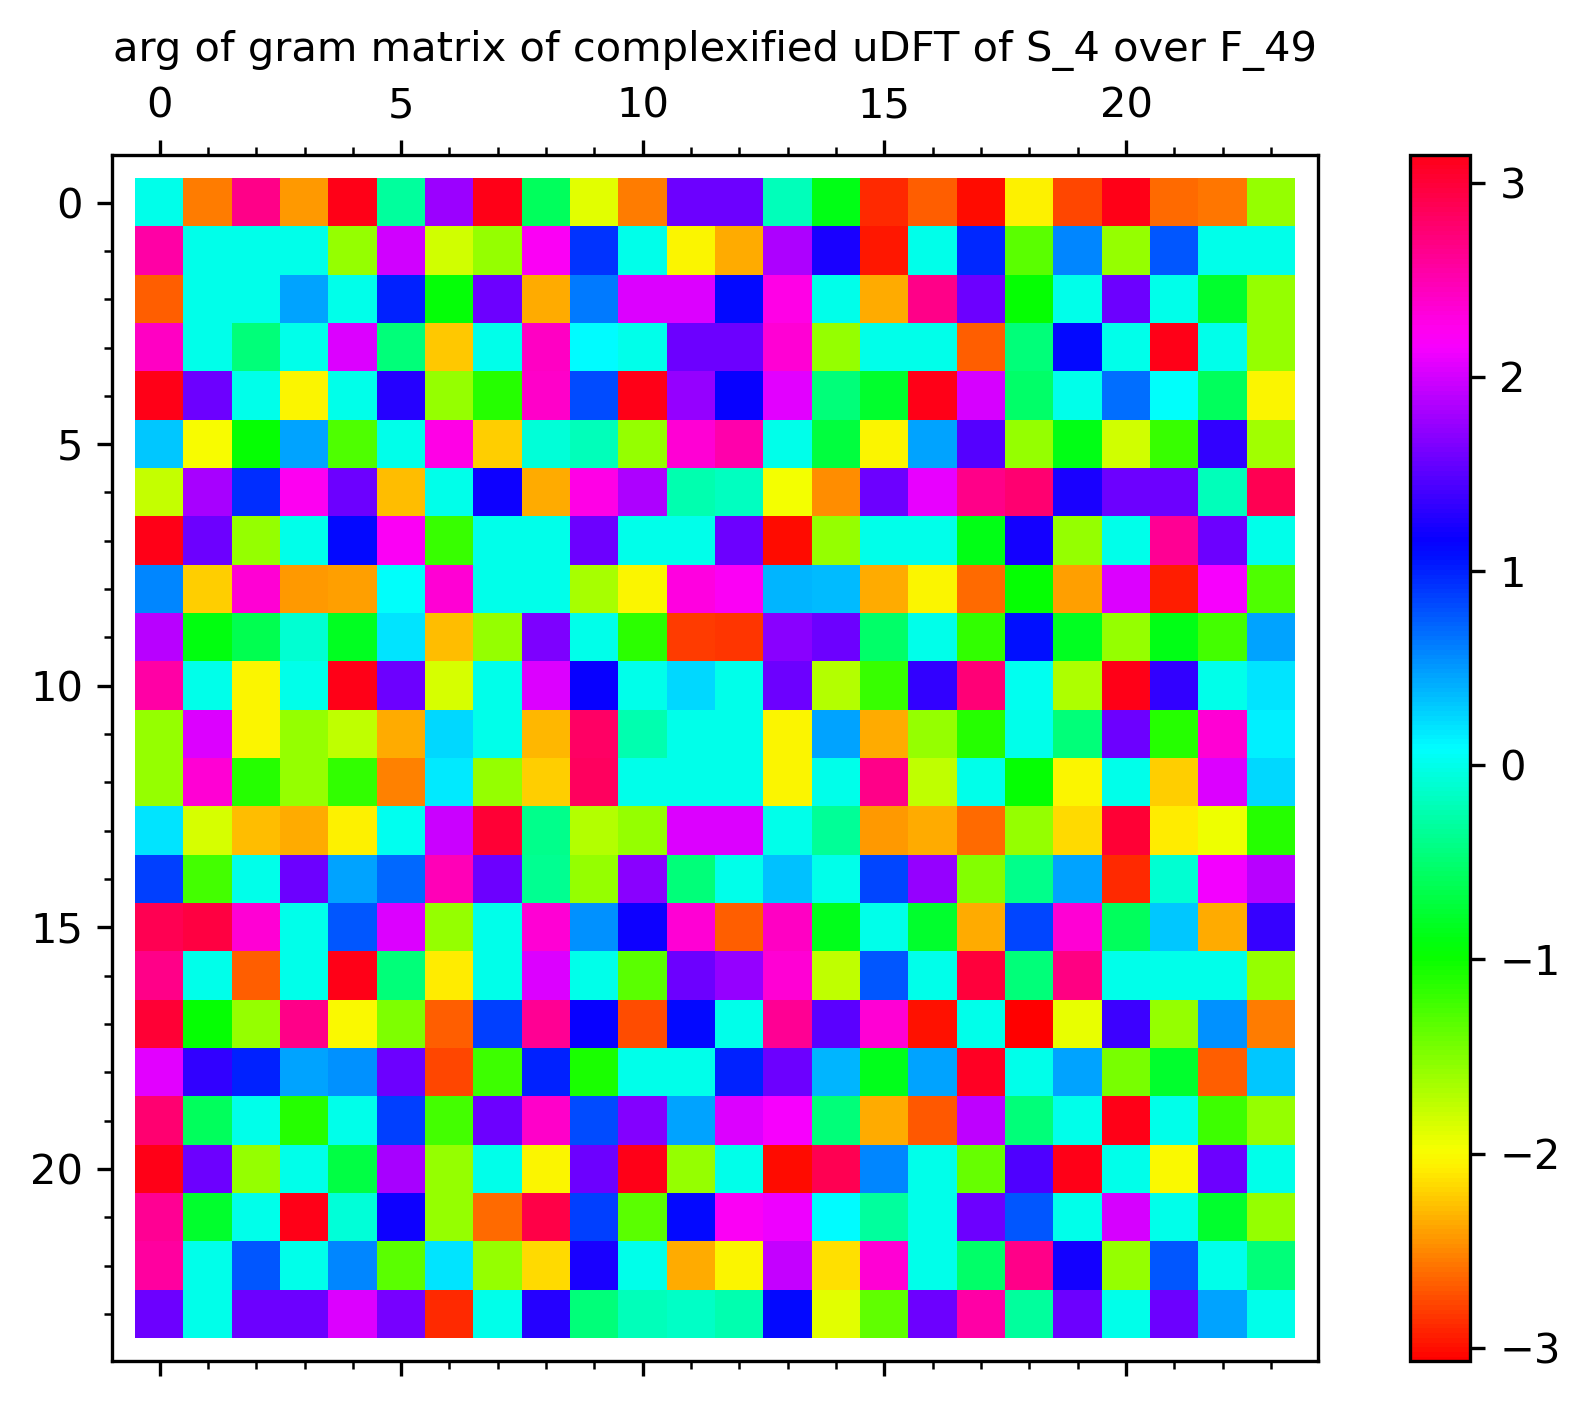
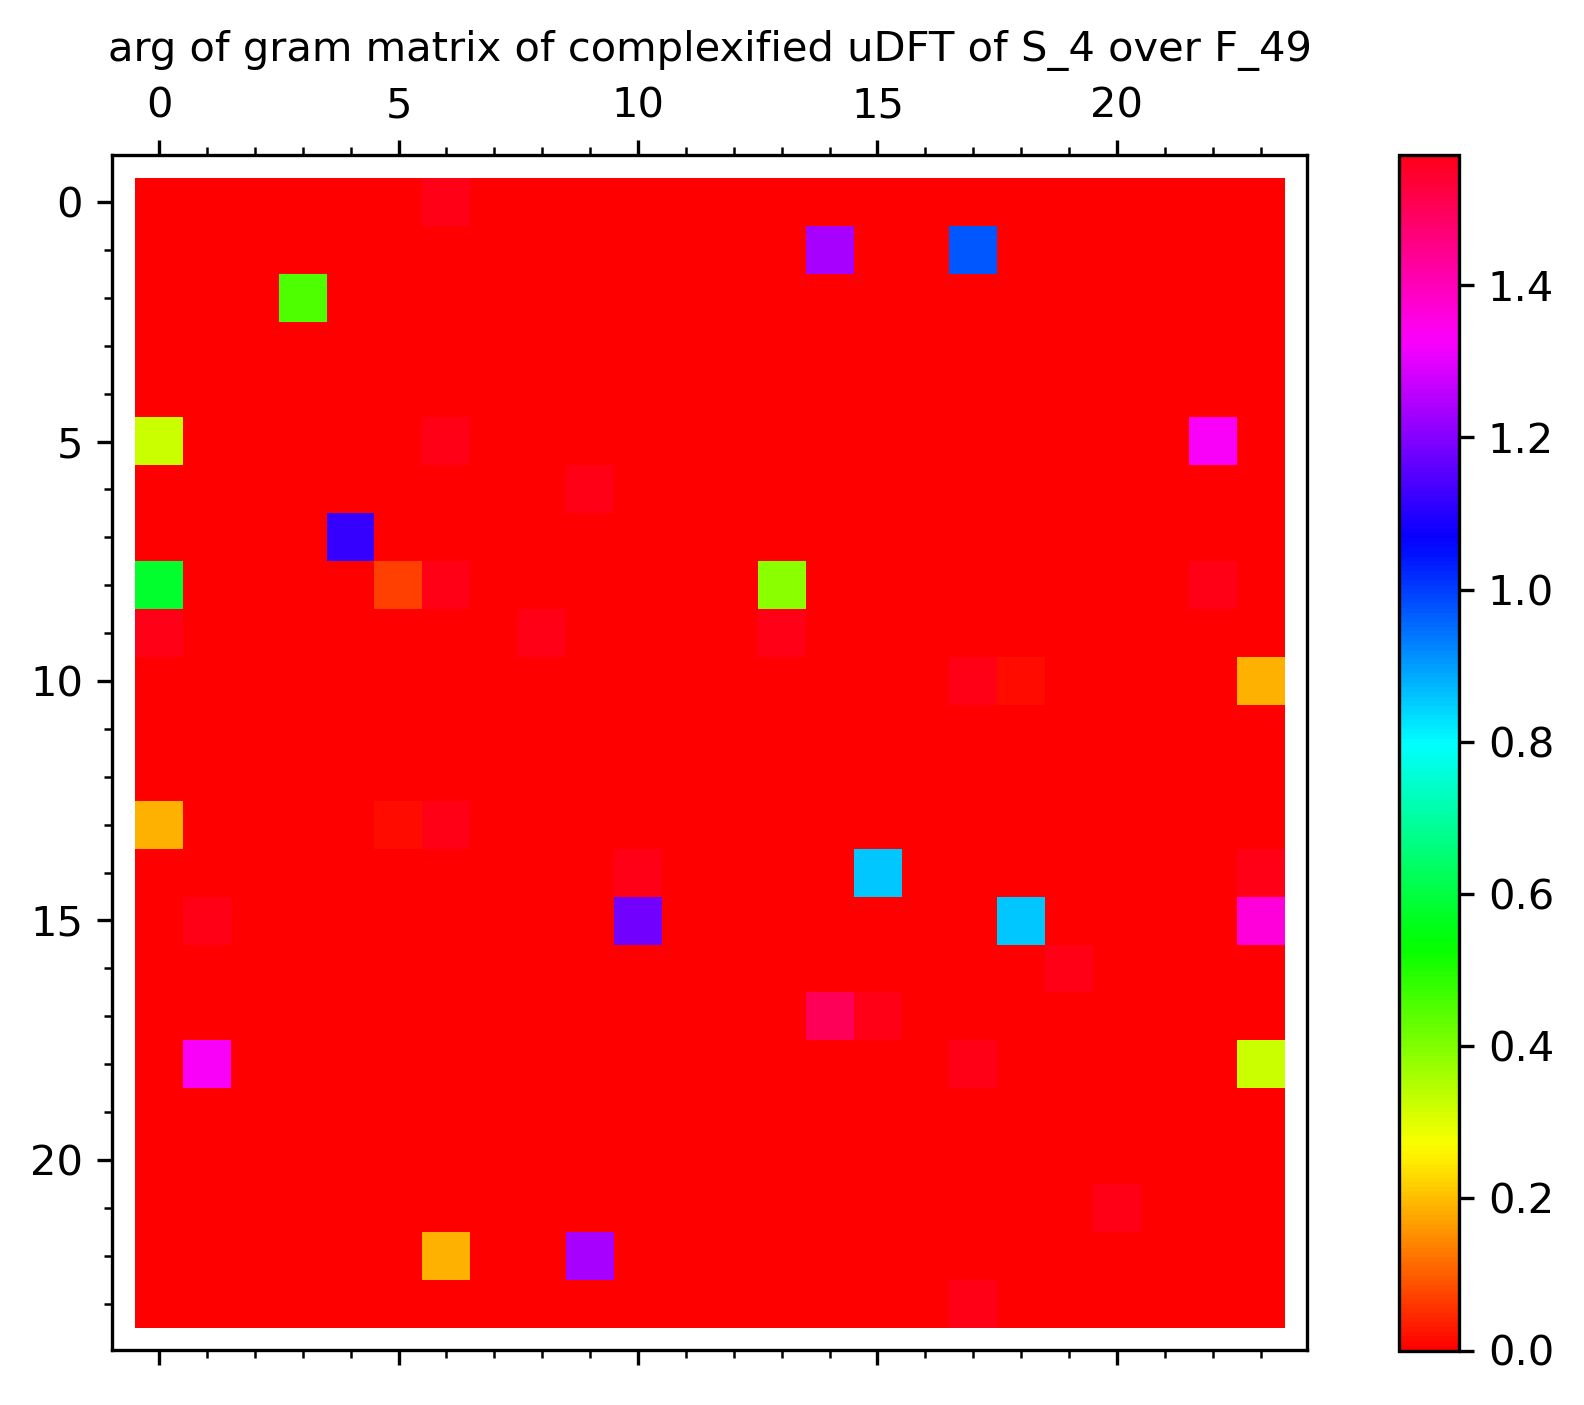
fix round_complex, move galois_orbit to utils.py

diff --git a/symmetric_group/unitary_dft_finite_fields/utils.py b/symmetric_group/unitary_dft_finite_fields/utils.py
@@ -45,6 +45,48 @@ def brauer_map(F, a=None, log_a=None):
 #round a complex number to a given number of digits by rounding real and imaginary parts separately
 def round_complex(z, digits):
     try:
-        return z.real_part().n(digits=digits) + z.imag_part().n(digits=digits) * 1j
+        real_part = z.real_part().n(digits=digits)
+        if real_part <= 10**(-digits):
+            real_part = 0
+        imag_part = z.imag_part().n(digits=digits)
+        if imag_part <= 10**(-digits):
+            imag_part = 0
+        return real_part + imag_part * 1j
     except AttributeError:
+        if z <= 10**(-digits):
+            return 0
         return z.n(digits=digits)
+    
+#define the q^th power map, which is the r^th power of the Frobenius map if q=p^r
+alpha = lambda x: x**(q**2)
+
+#compute the Galois orbit of an element `x` of a finite field `GF(q)`
+def galois_orbit(alpha,x):
+    orbit = [x]
+    while alpha(orbit[-1]) != orbit[0]:
+        orbit.append(alpha(orbit[-1]))
+    return orbit
+
+"""
+ - break apart the list elements of finite field elements into Galois orbit equivalence classes
+"""
+def galois_orbit_equiv_classes(alpha, elements):
+    orbits = {}
+    seen = set()
+    class_counter = 0
+    
+    for x in elements:
+        if x not in seen:
+            orbit = [x]
+            seen.add(x)
+            while True:
+                next_element = alpha(orbit[-1])
+                if next_element == orbit[0]:
+                    break
+                orbit.append(next_element)
+                seen.add(next_element)
+            
+            orbits[f'orbit_{class_counter}'] = orbit
+            class_counter += 1
+    
+    return orbits
